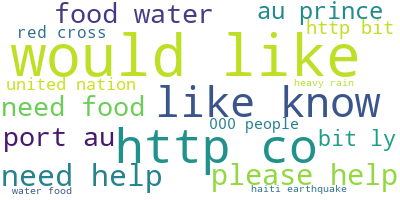
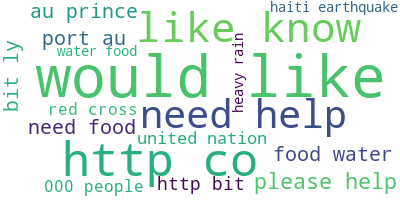
feat: Adds script to generate and save the n-grams wordclouds to file.
- Adds wordcloud images generated by the script to the repo.

diff --git a/app/generate-ngrams-wordclouds.py b/app/generate-ngrams-wordclouds.py
@@ -1,0 +1,55 @@
+#General Libs
+import sys
+
+#Data Science Libs
+import pandas as pd
+
+#Database Handling Libs
+from sqlalchemy import create_engine
+
+#WordCloud generation Libs
+import wordcloud
+
+#NGrams Names (labels dictionary)
+ngrams_names = {
+    1 : 'uni',
+    2 : 'bi',
+    3 : 'tri'
+}
+
+def save_wordcloud(ngrams_freqs, n,output_filepath):
+    '''
+    INPUT
+    ngrams_freqs - pandas DataFrame, dataframe containing the counts of n-grams in the dataset
+    n - the size of the ngram
+    output_filepath - string, filepath where wordcloud image will be saved to
+    
+    
+    This function generates a wordcloud image for the top n-grams given the input parameters 
+    and saves the results to file.
+    '''
+    filtered_ngrams = ngrams_freqs[ngrams_freqs['n'] == n]
+    ngrams_freqs_dict = dict(zip(filtered_ngrams['ngram'], filtered_ngrams['count']))
+    n_wordcloud = wordcloud.WordCloud(background_color ='white', 
+                min_font_size = 10,
+                max_words= 30).generate_from_frequencies(ngrams_freqs_dict)  
+    n_wordcloud.to_file(output_filepath)
+
+def main():
+    if len(sys.argv) >= 2:
+        db_filepath, output_folderpath = sys.argv[1:]
+
+        engine = create_engine('sqlite:///{}'.format(db_filepath))
+        ngrams_freqs = pd.read_sql_table('NGramsFreqs', engine)
+
+        for n in range(1,4):
+            wordcloud_filepath = '{}/{}_wordcloud.png'.format(output_folderpath,ngrams_names[n])
+            save_wordcloud(ngrams_freqs, n, wordcloud_filepath)
+
+    else:
+        print('Please provide the filepath of database file and the output folderpath of the wordcloud images.\n\n'\
+                'Example: python generate-ngrams-wordclouds.py ../data/DisasterResponse.db static/imgs/')
+
+
+if __name__ == '__main__':
+    main()
